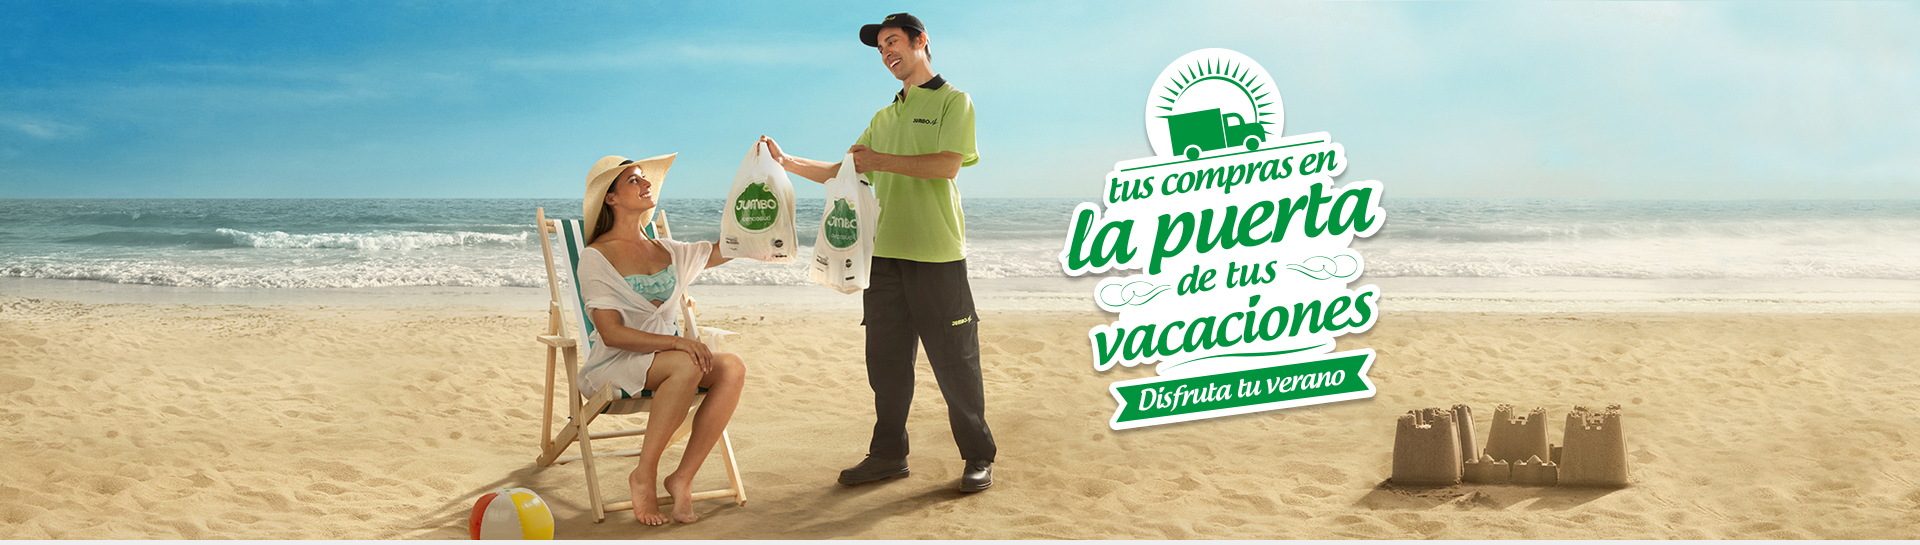
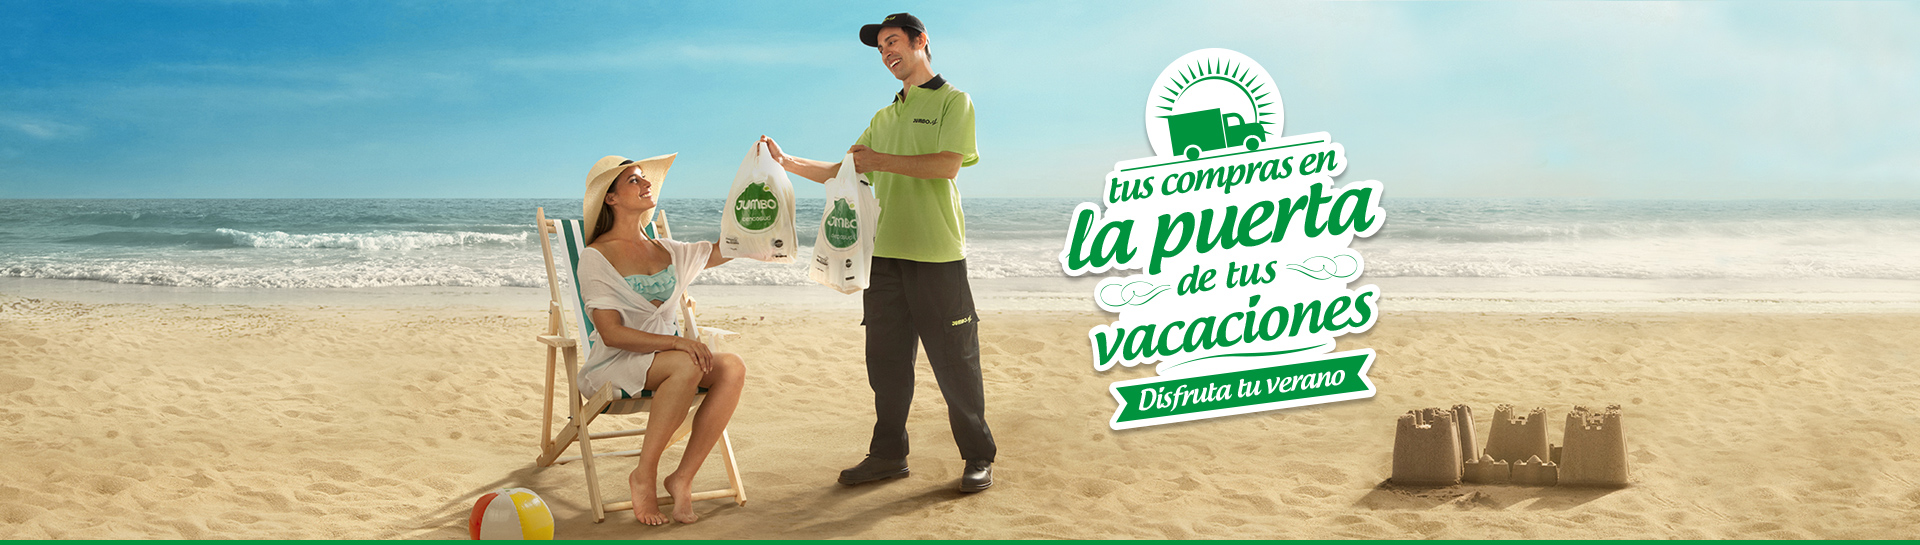
cambio de imágenes y texto

Changed region(s): [[0.0, 0.967, 1.0, 1.0]]

diff --git a/css/style.css b/css/style.css
@@ -53,6 +53,7 @@ body{
     .slider img{
         height: 100%;
         width: 100%;
+		vertical-align: top;
     }
 
 .despacho{
@@ -65,7 +66,11 @@ body{
         display: block;
         margin: 0;
         padding: 0;
-		background: #089b93;
+		/*background: #089b93;*/
+    }
+	
+	.despacho .despacho_top a img{
+        vertical-align: top;
     }
 
     .despacho .despacho_text{
